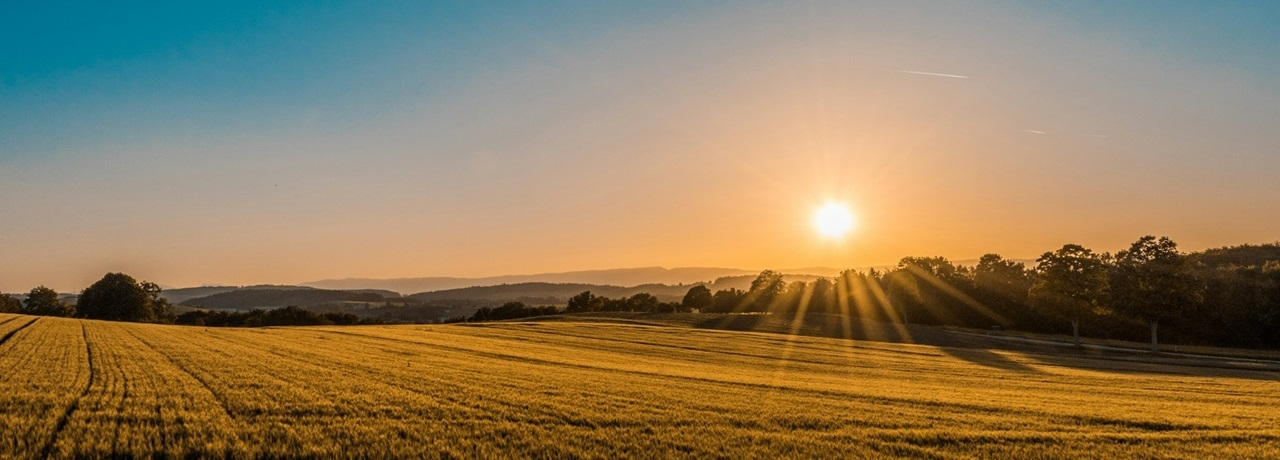
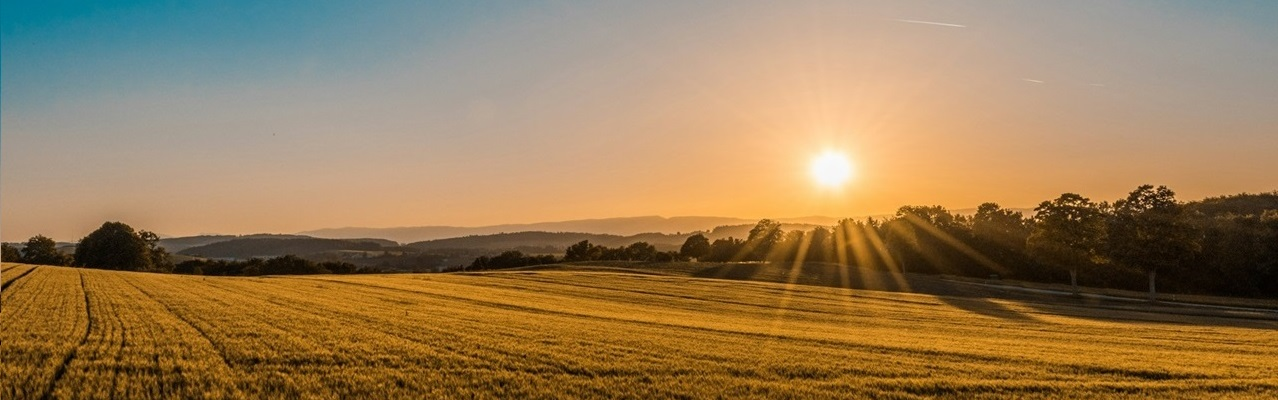
11-10-2024

diff --git a/WebSite/src/components/History/History.jsx b/WebSite/src/components/History/History.jsx
@@ -63,9 +63,9 @@ function History() {
 
     return (
         <div>
-            <div>
+            {/* <div>
                 <img src='./hist.jpg' alt="history" />
-            </div>
+            </div> */}
             <div className="mt-10">
                 <div className="mb-6 flex justify-center items-center">
                     <h3 className="text-3xl text-center text-primary font-poppins font-semibold relative heading_section inline-block max-w-full" data-aos="zoom-in-right" data-aos-duration="1000">

diff --git a/WebSite/src/components/Home/Home.jsx b/WebSite/src/components/Home/Home.jsx
@@ -68,7 +68,7 @@ function Home() {
                     <div className="relative overflow-hidden">
                         <img
                             className="w-full max-w-[1600px] h-auto max-h-[900px] object-contain transition-transform duration-300 transform hover:scale-105"
-                            src='./banner.jpg'
+                            src='./b3.jpg'
                             alt="Banner"
                         />
                     </div>
